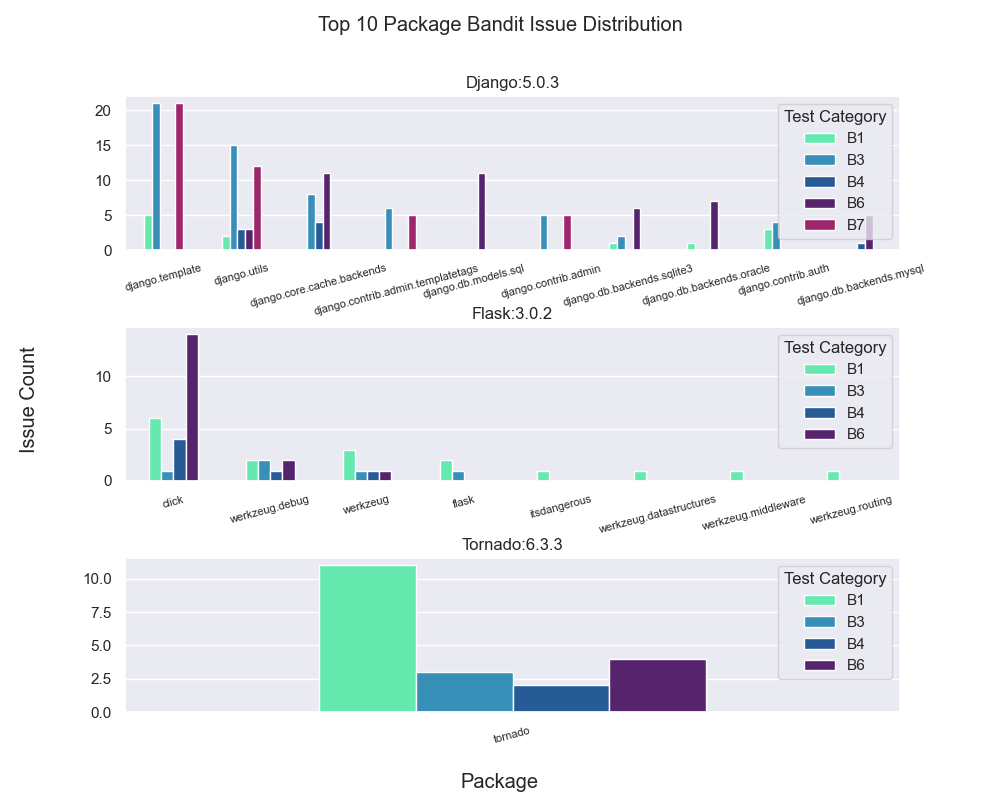
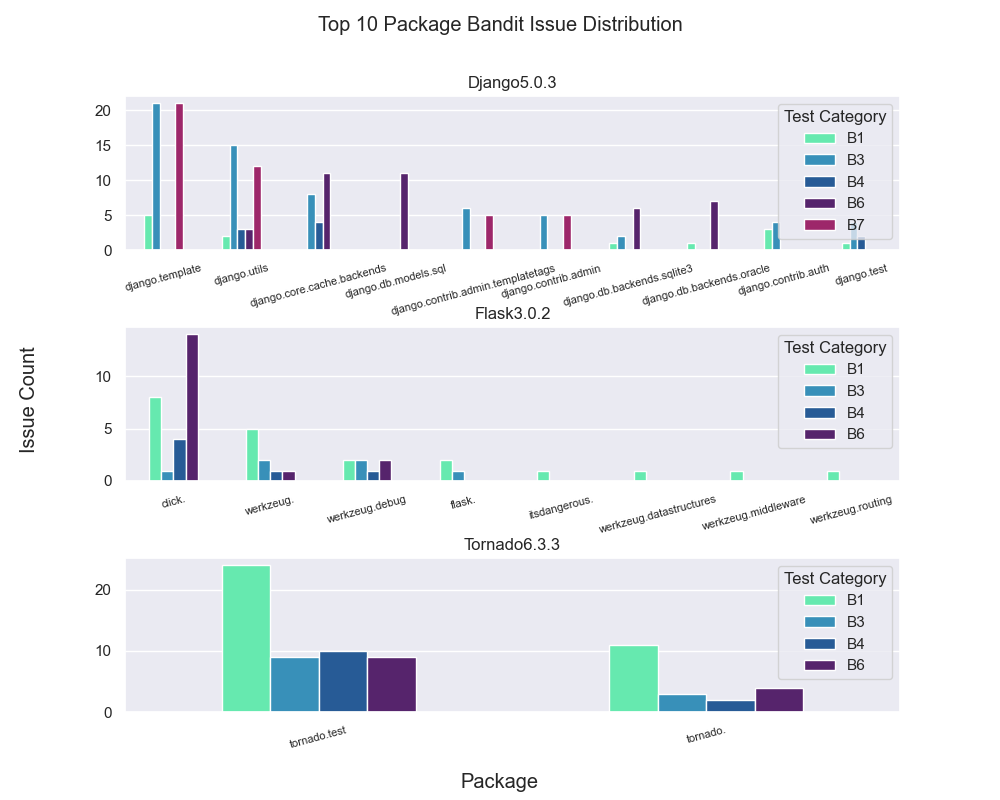
Update bandit plotter to use issues DF

diff --git a/scripts/plotter.py b/scripts/plotter.py
@@ -37,7 +37,7 @@ parser.add_argument('-p', '--projects', nargs='+', help='The projects to plot', 
 parser.add_argument('--output', help='The output directory', default='output')
 parser.add_argument('-t', '--timeline', help='Plot the timeline', nargs='+', default=[])
 parser.add_argument('-o', '--overall', help='Plot the overall data', nargs='+', default=[])
-parser.add_argument('--debug', help='The debug level of the logger', default='INFO')
+parser.add_argument('--debug', help='The debug level of the logger', action='store_true')
 parser.add_argument('--show', help='Show the plots', action='store_true')
 parser.add_argument('--dependencies', help="Generate plots for each project's dependencies as well", action='store_true')
 parser.add_argument('--force', help='Force reload of dependencies', action='store_true')
@@ -197,7 +197,7 @@ def try_json_dump(data: dict, path: Path):
 
 # set the logger level
 logger.remove()
-logger.add(sink=sys.stdout, level=args.debug)
+logger.add(sink=sys.stdout, level='INFO' if not args.debug else 'DEBUG')
 
 output_dir = Path(args.output)
 if not output_dir.exists():
@@ -451,68 +451,22 @@ def plot_semver_bandit_distribution(overall: dict, *measurements: str):
     """
     pass
 
-def plot_overall(overall: dict, *measurements: str):
+def plot_issues(issues: pd.DataFrame):
     """
-    Expects a dictionary with the following structure:
-
-    <project>: {
-        'cves': { <cve-id>: {} },
-        'cwes': { <cwe-id>: {} },
-        'releases': { <release-id>: {} }
-        'latest': {},
-        'bandit': {
-            'by_test'
-            'by_cwe'
-            'count'
-        },
-    }
+    Expects an issue-centred DataFrame
     """
-    # this will be more hard-coded plotting, given the wide variety of data
-
-    logger.info(f"Plotting overall data for {len(overall)} projects...")
-    # plotting the overall data
-    plot_overall_cve_distribution(overall)
-    plot_overall_cwe_distribution(overall)
-
-    # TODO: overall time KPIs (time to fix, time to CVE publish)
-
-    # TODO: scatter plot of CVEs, x-axis: exploitability, y-axis: impact
-            
-
-    # TODO: bar chart of CWE categories, sorted by number of vulnerabilities
-
-    # TODO: KPIs per minor/major release (count, severity, impact, patch lag)
-    plot_semver_cve_distribution(overall)
-
-    # TODO: frequency plot of Bandit test ID issues
-
-    # TODO: frequency plot of Bandit severity/confidence
-
-    # TODO: bandit issues / nloc
-
-    pass
-
-def plot_bandit(bandit: dict):
-    """
-    Plots Bandit data.
-    Expects a list of dictionaries of issues.
-
-    {
-        project: [ issues ]
-    }
-    """
-    project_count = len(bandit)
+    projects = sorted(list(issues['project'].unique()))
+    project_count = len(projects)
 
     # plot the test category distribution
     fig_category, axs_category = plt.subplots(project_count, 1, figsize=(10, 8))
     fig_category.subplots_adjust(hspace=0.5)
     i = 0
     values = ['None', 'Low', 'Medium', 'High', 'Critical']
-    for project_id, issues in bandit.items():
+    for project in projects:
         ax: plt.Axes = axs_category[i]
-        platform, project = get_platform(project_id)
-        version = f":{issues[0]['project_version']}" if len(issues) > 0 and issues[0]['project'] == project else ''
-        df = pd.DataFrame(issues)
+        df = issues[issues['project'] == project].copy()
+        version = df['project_version'].unique()[0]
         # sort the X-axis by the test category
         df = df.sort_values(by=['test_category', 'source'], ascending=True)
         df = df[ df['is_test'] == False ]
@@ -521,24 +475,20 @@ def plot_bandit(bandit: dict):
         unique_categories = df['test_category'].unique()
         ax.set_xlabel(None)
         ax.set_ylabel(None)
-        ax.set_title(f"{project.title()}{version}")
+        ax.set_title(f"{project.title()}:{version}")
         ax.set_yticks(range(len(values)), values)
         i += 1
     fig_category.suptitle("Bandit Test Category Distribution")
     fig_category.supxlabel("Test Category")
     fig_category.savefig(plots_dir / 'bandit-test-category-distribution.png')
-    bandit_json = convert_datetime_to_str(bandit)
 
     fig_module, axs_module = plt.subplots(project_count, 1, figsize=(10, 8))
     fig_module.subplots_adjust(hspace=0.5)
     i = 0
-    for project_id, issues in bandit.items():
+    for project in projects:
         ax: plt.Axes = axs_module[i]
-        platform, project = get_platform(project_id)
-        version = f":{issues[0]['project_version']}" if len(issues) > 0 and issues[0]['project'] == project else ''
-        df = pd.DataFrame(issues)
-        # get unique filenames, test ids, and code snippets
-        df = df[ df['is_test'] == False ]
+        df = issues[issues['project'] == project].copy()
+        version = df['project_version'].unique()[0]
         # count the number of issues per module
         total_count = df.groupby(['project_package']).size().reset_index(name='total_count')
         total_count = total_count.sort_values(by='total_count', ascending=False).head(10)
@@ -580,8 +530,6 @@ def plot_bandit(bandit: dict):
     fig_module.supylabel("Issue Count")
     fig_module.savefig(plots_dir / 'bandit-module-distribution.png')
 
-    try_json_dump(bandit_json, json_dir / 'bandit-distribution.json')
-
 def combine_timeline_data(data: dict):
     """
     Combines timeline data to a single dictionary
@@ -607,6 +555,7 @@ if __name__ == '__main__':
     if args.timeline:
     
         # timeline plot section
+        # TODO: update with new dataframe functions
         timelines = {}
         for project in args.projects:
             # get timeline for each project
@@ -648,22 +597,29 @@ if __name__ == '__main__':
         # 3) by severity
         # 4) by impact
         # 5) issues
-        overall = {}
-        bandit = {}
+        cves_df = pd.DataFrame()
+        cwes_df = pd.DataFrame()
+        issues_df = pd.DataFrame()
+        static_df = pd.DataFrame()
         for project in args.projects:
-            # get all the vulnerabilities for the project
             platform, project = get_platform(project)
-            bandit_issues = ag.get_bandit_issues(project, platform=platform, with_dependencies=True)
+            proj = ag.get_project(project, platform)
+            latest_analysed = ag.get_release(project, platform, analysed=True)
+            if proj is None:
+                logger.error(f"Could not find project '{project}' on platform '{platform}'")
+                continue
             project_id = f"{platform}:{project}"
-            bandit[project_id] = bandit_issues
-            logger.info(f"Getting overall data for {project} on {platform}...")
-            data = ag.get_report(project, platform=platform, with_dependencies=True)
-            overall[project_id] = data
-            logger.info(f"Got {len(data.get('cves'))} CVEs for {project}")
-            logger.info(f"Got {len(data.get('cwes'))} CWEs for {project}")
-        plot_overall(overall)
-        plot_bandit(bandit)
-        try_json_dump(overall, json_dir / 'overall.json')
+            # df = ag.df_cves(project, platform)
+            # cves_df = pd.concat([cves_df, df], ignore_index=True)
+            # df = ag.df_cves(project, platform, by_cwe=True)
+            # cwes_df = pd.concat([cwes_df, df], ignore_index=True)
+            # df = ag.df_static(project, platform)
+            # get only the latest analysed version
+            # df = df[df['project_version'] == latest_analysed.version]
+            # static_df = pd.concat([static_df, df], ignore_index=True)
+            df = ag.df_static(project, platform, with_issues=True, only_latest=True)
+            issues_df = pd.concat([issues_df, df], ignore_index=True)
+        plot_issues(issues_df)
 
     if args.show:
         plt.show()

diff --git a/src/aggregator.py b/src/aggregator.py
@@ -1295,7 +1295,7 @@ class Aggregator:
     # 4) Bandit Issues per release
     # 5) Static Analysis Summary per release
 
-    def get_releases_with_dependencies(self, project: str | Project, platform: str="pypi", analysed: bool = True, before_release: bool = True, sort_semantically: bool = True) -> List[list]:
+    def get_releases_with_dependencies(self, project: str | Project, platform: str="pypi", analysed: bool = True, before_release: bool = True, sort_semantically: bool = True, only_latest: bool = False) -> List[list]:
         """
         Gets a list of tuples where each tuple contains a release and its dependencies
 
@@ -1317,6 +1317,8 @@ class Aggregator:
                 if deprel is not None:
                     result.append((deprel, dep))
             results.append(result)
+            if only_latest:
+                break
         return results
     
     def __patch_lag(self, cve: dict, release: Release) -> dict:
@@ -1447,8 +1449,8 @@ class Aggregator:
             columns.append('cwe_id')
         return pd.DataFrame(df_cves).drop_duplicates(columns)
 
-    def df_static(self, project: str | Project, platform: str="pypi", with_issues: bool = False) -> pd.DataFrame:
-        release_deps = self.get_releases_with_dependencies(project, platform=platform, analysed=True)
+    def df_static(self, project: str | Project, platform: str="pypi", with_issues: bool = False, only_latest: bool = True) -> pd.DataFrame:
+        release_deps = self.get_releases_with_dependencies(project, platform=platform, analysed=True, only_latest=only_latest)
         df = []
         for releases in release_deps:
             if len(releases) == 0:
@@ -1465,6 +1467,11 @@ class Aggregator:
                         confidence = issue.confidence
                         issue_dict = self.__model_with_release_data(issue, main_release, release, dependency)
                         issue_dict['severity_score'] = bandit_value_score(severity)
+                        issue_dict['test_category'] = issue.test_id[:2] if issue.test_id and len(issue.test_id) > 2 else None
+                        package = issue.package or ''
+                        module = issue.module or ''
+                        issue_dict['is_test'] = package.startswith('test') or 'test' in module
+                        issue_dict['project_package'] = f"{release.project.name}.{package}"
                         issue_dict['confidence_score'] = bandit_value_score(confidence)
                         issue_dict['score'] = bandit_issue_score(severity, confidence)
                         df.append(issue_dict)
@@ -1489,7 +1496,7 @@ class Aggregator:
         project = self.get_project(project, platform)
         releases = self.get_releases_with_dependencies(project, platform=platform, analysed=analysed)
         df = pd.DataFrame()
-        source_df = self.df_cves(project, platform, by_cwe=False) if not analysed else self.df_static(project, platform, with_issues=with_issues)
+        source_df = self.df_cves(project, platform, by_cwe=False) if not analysed else self.df_static(project, platform, with_issues=with_issues, only_latest=False)
         for date in date_range(start_date, end_date, step):
             date_releases = None
             print(f"Processing date {date}")
